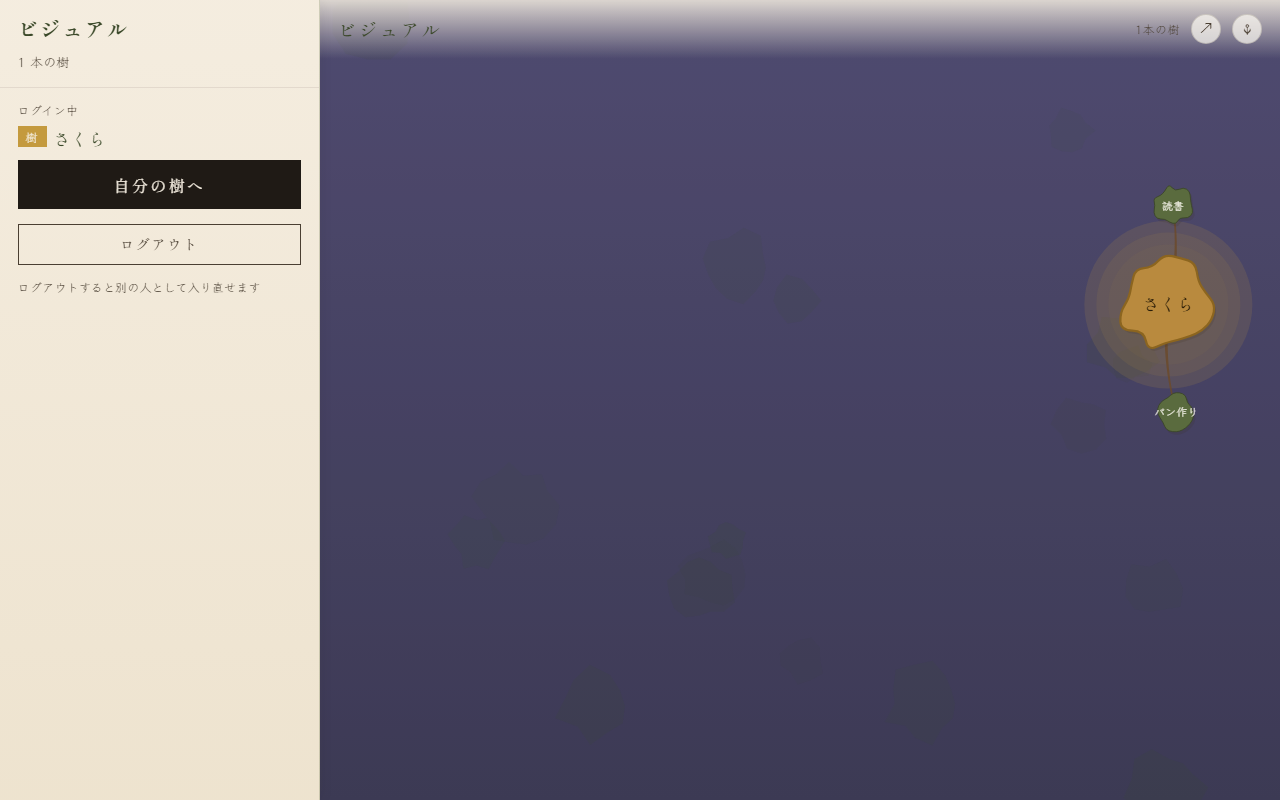
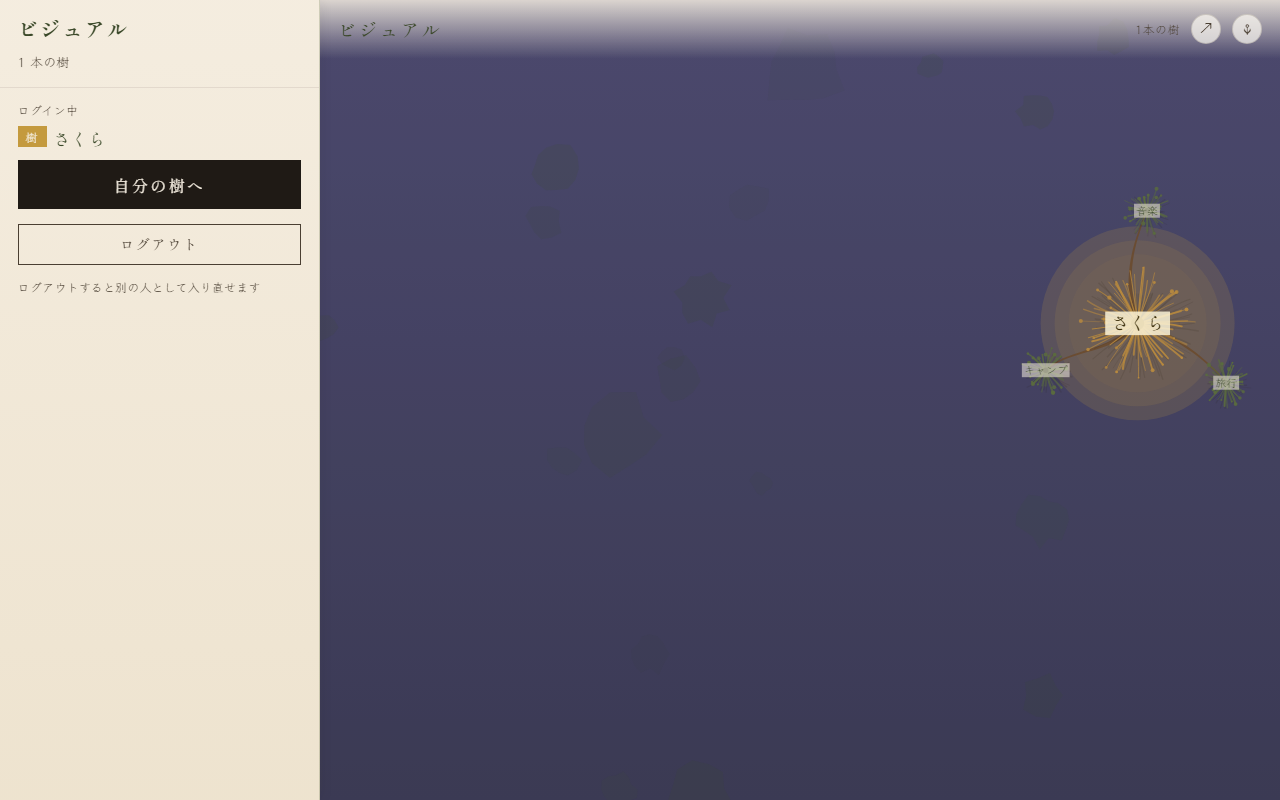
design: dense packed center + jagged spikes + larger leaf nodes
- drawRadialBurst rewritten as 3 layers:
  (a) inner dense short lines (130+ per node) filling 0-0.4r
  (b) medium-length curved lines (90+) at 0.45-0.8r
  (c) outer jagged spikes (40+) with 35% chance of extending to
      1.0-1.45r — these give the ragged tree-crown silhouette
- Leaf nodes enlarged: base radius 18 + size*5.0 (was 12 + size*3.6)
  and sizeScale for children raised 0.72 -> 0.92
- Label threshold raised accordingly

Changed region(s): [[0.7812, 0.2188, 0.9688, 0.5625]]

diff --git a/js/tree.js b/js/tree.js
@@ -1,75 +1,100 @@
 import { seededRandom, stringHash } from './utils.js';
 
 // ====== 放射状バースト(ノード・幹共通) ======
-// 上から見た樹のように、中央から密に細い線が放射状に伸びるビジュアル。
-// 密度(線の本数)は半径で変化、長さ・幅・湾曲はseedベースの乱数で揺らぎ。
+// 上から見た樹:中央は密に詰まり、外周はギザギザに伸びる。
+// 3層構造: (a) 中心の詰まった短線層  (b) 中長線層  (c) 外へ突出する長線(ギザギザ感)
 export function drawRadialBurst(ctx, cx, cy, baseR, seed, col, strokeCol, opts = {}) {
-  const { density = 1.0, jitter = 0.5, dots = true } = opts;
-  const rng = seededRandom(Math.max(1, Math.floor(seed)));
-  // 半径比例で線の本数を決める
-  const N = Math.max(18, Math.min(64, Math.floor(baseR * density * 1.2)));
+  const { density = 1.0, jitter = 0.7, dots = true } = opts;
   ctx.save();
   ctx.lineCap = 'round';
+  const strokeDark = strokeCol || col;
 
-  // 影(下へずらした薄いバースト)
+  // --- 影(ベース形状の薄い影) ---
   ctx.save();
-  ctx.strokeStyle = 'rgba(40, 30, 15, 0.12)';
-  ctx.translate(2, 3);
-  for (let i = 0; i < N; i++) {
-    const a = (Math.PI * 2 * i) / N + (rng() - 0.5) * 0.25;
-    const len = baseR * (0.55 + rng() * 0.55);
-    const x1 = cx + Math.cos(a) * baseR * 0.05;
-    const y1 = cy + Math.sin(a) * baseR * 0.05;
+  ctx.fillStyle = 'rgba(40, 30, 15, 0.16)';
+  ctx.beginPath();
+  ctx.arc(cx + 2, cy + 3, baseR * 0.95, 0, Math.PI * 2);
+  ctx.fill();
+  ctx.restore();
+
+  // --- 層 (a) 中心の詰まった短線:非常に多数、半径0〜0.4 ---
+  const rngInner = seededRandom(Math.max(1, Math.floor(seed)));
+  const Nin = Math.floor((130 + baseR * 2.2) * density);
+  for (let i = 0; i < Nin; i++) {
+    const a = (Math.PI * 2 * i) / Nin + (rngInner() - 0.5) * 0.5;
+    const len = baseR * (0.2 + rngInner() * 0.35);
     const x2 = cx + Math.cos(a) * len;
     const y2 = cy + Math.sin(a) * len;
-    const midA = a + (rng() - 0.5) * 0.35 * jitter;
-    const midR = len * (0.5 + rng() * 0.25);
+    ctx.strokeStyle = col;
+    ctx.globalAlpha = 0.6 + rngInner() * 0.35;
+    ctx.lineWidth = 0.7 + rngInner() * 1.3;
+    ctx.beginPath();
+    ctx.moveTo(cx, cy);
+    ctx.lineTo(x2, y2);
+    ctx.stroke();
+  }
+
+  // --- 層 (b) 中距離層:密、半径0.3〜0.75 ---
+  const rngMid = seededRandom(Math.max(1, Math.floor(seed) + 53));
+  const Nmid = Math.floor((90 + baseR * 1.6) * density);
+  for (let i = 0; i < Nmid; i++) {
+    const a = (Math.PI * 2 * i) / Nmid + (rngMid() - 0.5) * 0.35;
+    const len = baseR * (0.45 + rngMid() * 0.35);
+    const midA = a + (rngMid() - 0.5) * 0.35 * jitter;
+    const midR = len * (0.5 + rngMid() * 0.2);
+    const x1 = cx + Math.cos(a) * baseR * 0.08;
+    const y1 = cy + Math.sin(a) * baseR * 0.08;
+    const x2 = cx + Math.cos(a) * len;
+    const y2 = cy + Math.sin(a) * len;
     const mx = cx + Math.cos(midA) * midR;
     const my = cy + Math.sin(midA) * midR;
-    ctx.lineWidth = 0.6 + rng() * 1.0;
+    ctx.strokeStyle = col;
+    ctx.globalAlpha = 0.55 + rngMid() * 0.35;
+    ctx.lineWidth = 0.9 + rngMid() * 1.3;
     ctx.beginPath();
     ctx.moveTo(x1, y1);
     ctx.quadraticCurveTo(mx, my, x2, y2);
     ctx.stroke();
   }
-  ctx.restore();
 
-  // 本体の密な放射線(濃淡あり)
-  // seededRandomを再初期化しないと影と同じ乱数になる → 新しいseedで
-  const rng2 = seededRandom(Math.max(1, Math.floor(seed) + 1));
-  for (let i = 0; i < N; i++) {
-    const a = (Math.PI * 2 * i) / N + (rng2() - 0.5) * 0.25;
-    const len = baseR * (0.55 + rng2() * 0.55);
-    const x1 = cx + Math.cos(a) * baseR * 0.05;
-    const y1 = cy + Math.sin(a) * baseR * 0.05;
+  // --- 層 (c) 外へ突出する長線(ギザギザ感):少数、長さバラツキ大 ---
+  const rngOut = seededRandom(Math.max(1, Math.floor(seed) + 113));
+  const Nout = Math.floor((40 + baseR * 0.6) * density);
+  for (let i = 0; i < Nout; i++) {
+    const a = (Math.PI * 2 * i) / Nout + (rngOut() - 0.5) * 0.3;
+    // 長さが大きくばらつく:短いものと長く突き出すものが混在してギザギザ感
+    const spike = rngOut() < 0.35;
+    const len = baseR * (spike ? (1.0 + rngOut() * 0.45) : (0.75 + rngOut() * 0.2));
+    const midA = a + (rngOut() - 0.5) * 0.25 * jitter;
+    const midR = len * (0.6 + rngOut() * 0.15);
+    const x1 = cx + Math.cos(a) * baseR * 0.12;
+    const y1 = cy + Math.sin(a) * baseR * 0.12;
     const x2 = cx + Math.cos(a) * len;
     const y2 = cy + Math.sin(a) * len;
-    const midA = a + (rng2() - 0.5) * 0.35 * jitter;
-    const midR = len * (0.5 + rng2() * 0.25);
     const mx = cx + Math.cos(midA) * midR;
     const my = cy + Math.sin(midA) * midR;
-    ctx.strokeStyle = col;
-    ctx.globalAlpha = 0.45 + rng2() * 0.45;
-    ctx.lineWidth = 0.7 + rng2() * 1.4;
+    ctx.strokeStyle = spike ? strokeDark : col;
+    ctx.globalAlpha = spike ? (0.75 + rngOut() * 0.25) : (0.6 + rngOut() * 0.3);
+    ctx.lineWidth = spike ? (1.1 + rngOut() * 1.3) : (0.8 + rngOut() * 1.0);
     ctx.beginPath();
     ctx.moveTo(x1, y1);
     ctx.quadraticCurveTo(mx, my, x2, y2);
     ctx.stroke();
-    // 終点に小さな点で葉っぽさを強調(確率的に)
-    if (dots && rng2() < 0.55) {
-      ctx.globalAlpha = 0.7 + rng2() * 0.3;
+    // 先端に葉の点
+    if (dots && rngOut() < 0.6) {
+      ctx.globalAlpha = 0.75 + rngOut() * 0.25;
       ctx.fillStyle = col;
       ctx.beginPath();
-      ctx.arc(x2, y2, 0.8 + rng2() * 1.4, 0, Math.PI * 2);
+      ctx.arc(x2, y2, 0.9 + rngOut() * 1.5, 0, Math.PI * 2);
       ctx.fill();
     }
   }
   ctx.globalAlpha = 1;
 
-  // 中心のアンカー(濃い縁取り色)
-  ctx.fillStyle = strokeCol || col;
+  // 中心のアンカー(小)
+  ctx.fillStyle = strokeDark;
   ctx.beginPath();
-  ctx.arc(cx, cy, Math.max(1.8, baseR * 0.12), 0, Math.PI * 2);
+  ctx.arc(cx, cy, Math.max(1.6, baseR * 0.08), 0, Math.PI * 2);
   ctx.fill();
 
   ctx.restore();
@@ -175,8 +200,9 @@ export function computeAllPositions(tree, cx, cy, scale = 1.0) {
       if (child.simDX != null) ex += child.simDX;
       if (child.simDY != null) ey += child.simDY;
 
-      const sizeScale = depth === 0 ? 1 : 0.72;
-      const nr = (12 + (child.size || 3) * 3.6) * scale * sizeScale;
+      // 葉ノードも十分な存在感を持つよう大きめに
+      const sizeScale = depth === 0 ? 1 : 0.92;
+      const nr = (18 + (child.size || 3) * 5.0) * scale * sizeScale;
 
       out.push({
         node: child, x: ex, y: ey,
@@ -247,10 +273,10 @@ export function drawTree(ctx, tree, cx, cy, scale = 1.0, opts = {}) {
       ctx.restore();
     }
 
-    if (p.nr >= 16 * scale) {
+    if (p.nr >= 20 * scale) {
       ctx.save();
       ctx.fillStyle = 'rgba(255, 252, 244, 0.92)';
-      ctx.font = `${Math.max(10, p.nr * 0.48)}px 'Klee One', serif`;
+      ctx.font = `${Math.max(11, p.nr * 0.42)}px 'Klee One', serif`;
       ctx.textAlign = 'center';
       ctx.textBaseline = 'middle';
       // 中央に少し背景つける(可読性のため)
